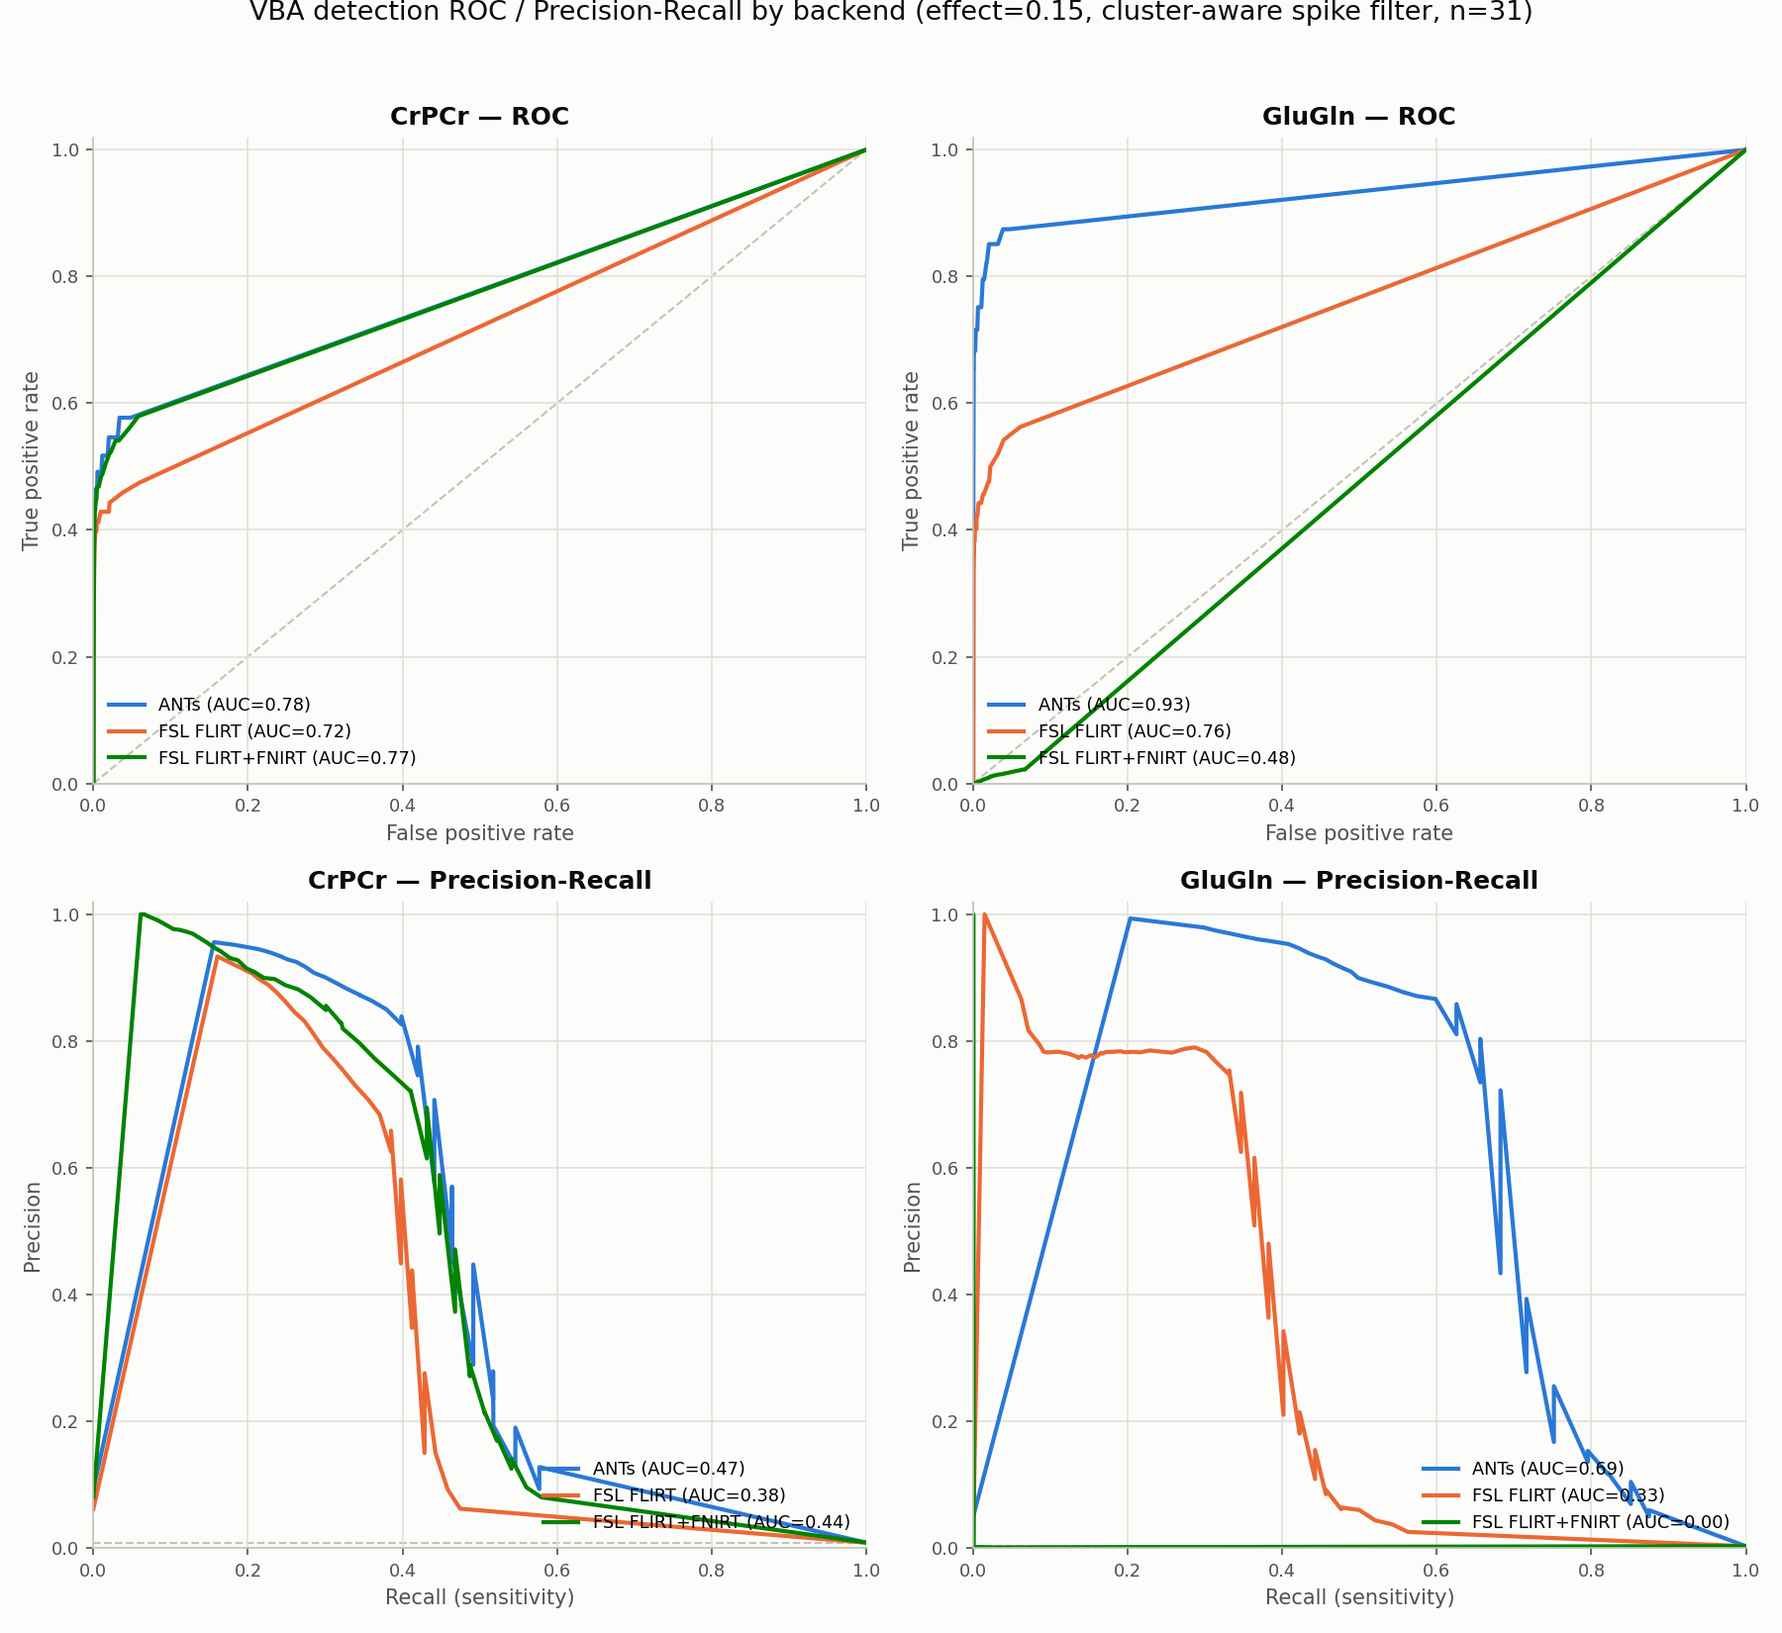
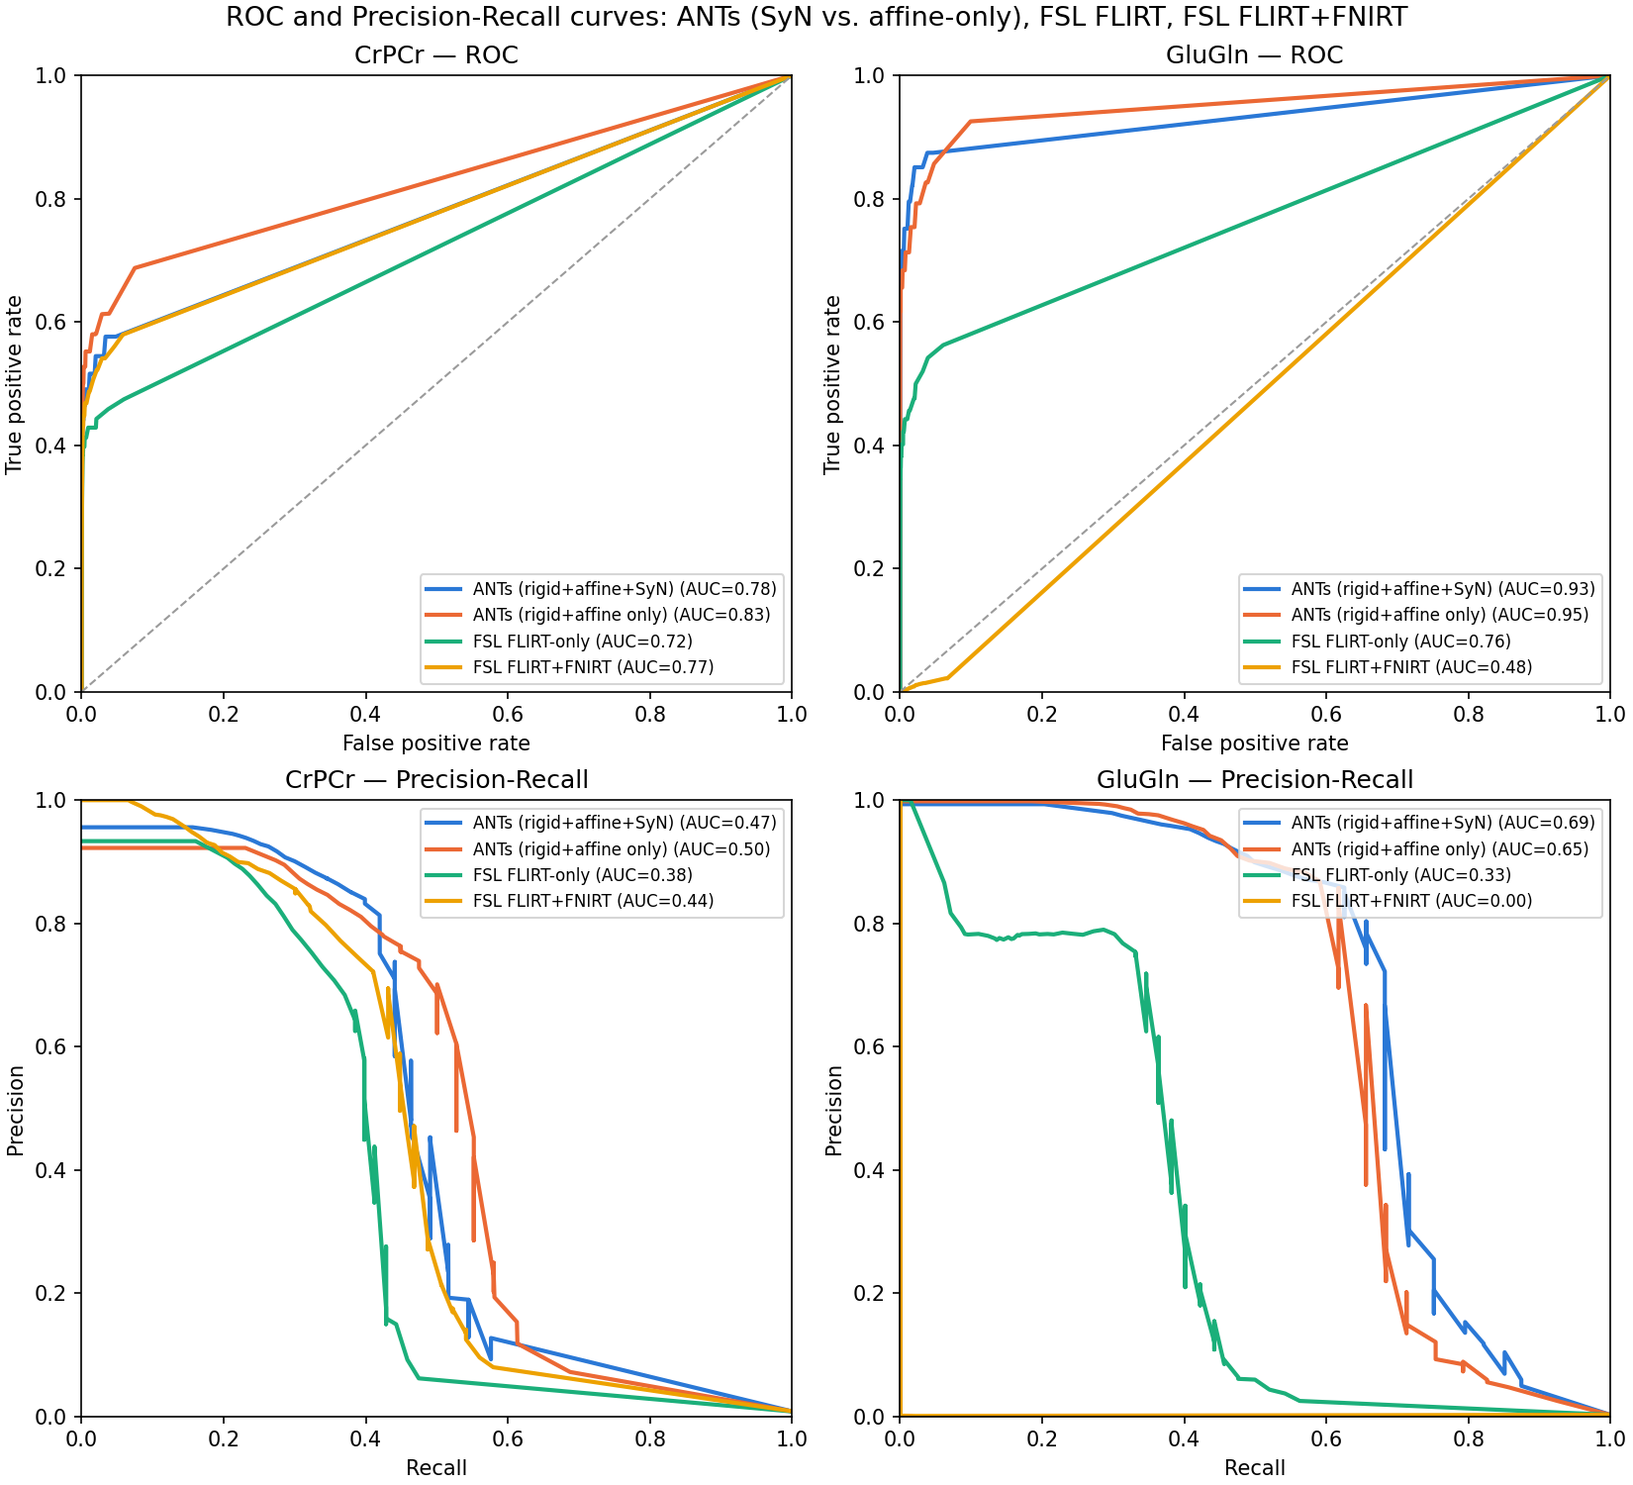
Add ANTs rigid+affine-only as a 4th VBA benchmark backend, bump to v1.7.2
Reuses the same MRSI->T1w/T1w->MNI registrations already computed for
full ANTs SyN, dropping the deformable warp from the resampling chain
(antsRegistration always writes the affine stage independently, so no
registration recompute is needed). Added throughout the benchmark: the
original AAL-parcel comparison and the GM-precise boundary-tracking
follow-up.

Consistent finding across both metabolites and both ground-truth
granularities: ANTs affine-only matches or exceeds full ANTs SyN on
every metric (ROC-AUC, PR-AUC, Dice, boundary distance) -- the
deformable stage does not clearly improve focal, planted-signal VBA
detection, and is the best-performing backend overall on the
GM-precise Precuneus target.

Also fixes an unanchored-curve gap in the ROC/PR comparison figure:
the plotted curves now reach the same endpoint anchors already used
internally by the AUC calculation.

diff --git a/docs/vba_benchmark.md b/docs/vba_benchmark.md
@@ -1,10 +1,11 @@
 # Voxel-Based Detection Benchmark
 
-This page validates whether MRSIPrep's pipeline — across its three
-registration backends (ANTs, FSL FLIRT-only, FSL FLIRT+FNIRT) — can
-recover a known, deliberately-injected metabolic abnormality via a
-standard voxel-based-analysis (VBA) group comparison (`randomise -T`,
-FSL's TFCE-corrected permutation test).
+This page validates whether MRSIPrep's pipeline — across four
+registration configurations (ANTs rigid+affine+SyN, ANTs rigid+affine
+only, FSL FLIRT-only, FSL FLIRT+FNIRT) — can recover a known,
+deliberately-injected metabolic abnormality via a standard
+voxel-based-analysis (VBA) group comparison (`randomise -T`, FSL's
+TFCE-corrected permutation test).
 
 ## Dataset
 
@@ -47,12 +48,18 @@ size in a real spike-cluster-size survey across 1075 3T metabolite maps
 
 ### Runs compared
 
-All three registration backends were run on the same 32 dummy subjects
+Four registration configurations were run on the same 32 dummy subjects
 (one subject excluded for an independently-confirmed bad registration —
 see below), at 2mm MNI resolution, then compared with `randomise -T`
 (500 permutations, two-sample unpaired design, contrast `group1 >
 group0`) restricted to each metabolite's population quality mask (CRLB
-&lt; 20 in ≥70% of subjects).
+&lt; 20 in ≥70% of subjects). **ANTs (rigid+affine only)** reuses the
+*same* MRSI→T1w and T1w→MNI registrations already computed for the
+full ANTs (rigid+affine+SyN) run — `antsRegistration` always writes
+the affine stage to its own independent `.mat` file regardless of
+whether a later SyN stage also ran, so the deformable warp can simply
+be dropped from the resampling transform chain with no registration
+recompute needed.
 
 | | |
 |---|---|
@@ -97,22 +104,22 @@ show:
 
 **CrPCr:**
 
-![CrPCr: voxels significant at alpha=0.05 (filled) vs. ground-truth Precuneus injection mask (outline), for ANTs, FSL FLIRT, and FSL FLIRT+FNIRT](figures/vba_detection_crpcr.png)
+![CrPCr: voxels significant at alpha=0.05 (filled) vs. ground-truth Precuneus injection mask (outline), for ANTs (SyN), ANTs (affine-only), FSL FLIRT, and FSL FLIRT+FNIRT](figures/vba_detection_crpcr_4backend.png)
 
-All three backends detect a cluster well inside the true Precuneus
-region. FSL FLIRT+FNIRT's detected cluster is visibly smaller than
-ANTs' or FSL FLIRT-only's, consistent with its lower sensitivity in the
-ROC/PR results below.
+All four configurations detect a cluster well inside the true Precuneus
+region. FSL FLIRT+FNIRT's detected cluster is visibly smaller than the
+other three, consistent with its lower sensitivity in the ROC/PR
+results below.
 
 **GluGln:**
 
-![GluGln: voxels significant at alpha=0.05 (filled) vs. ground-truth Thalamus injection mask (outline), for ANTs, FSL FLIRT, and FSL FLIRT+FNIRT](figures/vba_detection_glugln.png)
+![GluGln: voxels significant at alpha=0.05 (filled) vs. ground-truth Thalamus injection mask (outline), for ANTs (SyN), ANTs (affine-only), FSL FLIRT, and FSL FLIRT+FNIRT](figures/vba_detection_glugln_4backend.png)
 
-ANTs detects a clean, tightly bilateral cluster inside the Thalamus.
-FSL FLIRT-only detects a real but visibly asymmetric cluster (stronger
-on one side). **FSL FLIRT+FNIRT detects nothing at `alpha=0.05`** —
-zero significant voxels at either slice — matching its near-chance
-ROC-AUC below.
+ANTs (both with and without the SyN stage) detects a clean, tightly
+bilateral cluster inside the Thalamus. FSL FLIRT-only detects a real
+but visibly asymmetric cluster (stronger on one side). **FSL
+FLIRT+FNIRT detects nothing at `alpha=0.05`** — zero significant
+voxels at either slice — matching its near-chance ROC-AUC below.
 
 ## ROC / Precision-Recall curves
 
@@ -126,35 +133,51 @@ of total discriminative power.
 
 | Backend | CrPCr ROC-AUC | CrPCr PR-AUC | GluGln ROC-AUC | GluGln PR-AUC |
 |---|---|---|---|---|
-| ANTs | 0.78 | 0.47 | 0.93 | 0.69 |
+| ANTs (rigid+affine+SyN) | 0.78 | 0.47 | 0.93 | 0.69 |
+| ANTs (rigid+affine only) | 0.83 | 0.50 | 0.95 | 0.65 |
 | FSL FLIRT-only | 0.72 | 0.38 | 0.76 | 0.33 |
 | FSL FLIRT+FNIRT | 0.77 | 0.44 | 0.48 | 0.00 |
 
+**ANTs (rigid+affine only)** reuses the same MRSI→T1w/T1w→MNI
+registrations as the full ANTs run above, with the deformable SyN stage
+simply dropped from the resampling transform chain — see the
+"GM-precise boundary tracking" section below for why this variant was
+added and how it's computed.
+
 ### Interpretation
 
-* **ANTs has the best detection power on both metabolites**, most
-  clearly on GluGln (ROC-AUC 0.93, PR-AUC 0.69 — both substantially
-  ahead of either FSL variant).
+* **ANTs is the best-performing backend on both metabolites**, and
+  **the affine-only variant is consistently at least as good as the
+  full SyN pipeline** — on GluGln it has the highest ROC-AUC of any
+  backend (0.95), and on CrPCr it leads on both ROC-AUC (0.83) and
+  PR-AUC (0.50). The deformable SyN stage does not clearly improve
+  detection power over rigid+affine alone on either metabolite in this
+  benchmark.
 
-* **FSL FLIRT+FNIRT is competitive with ANTs on CrPCr** (ROC-AUC 0.77 vs.
-  0.78) **but collapses to near-chance on GluGln** (ROC-AUC 0.48, PR-AUC
-  0.00 — no better than random). This is specific to the Thalamus, a
-  small, deep, centrally-located structure — consistent with the
-  Registration Frameworks benchmark's (see the [Benchmarks](benchmarks.md)
-  page) finding that FNIRT's nonlinear warp has higher signal-weighted
+* **FSL FLIRT+FNIRT is competitive with the ANTs variants on CrPCr**
+  (ROC-AUC 0.77, close to ANTs SyN's 0.78) **but collapses to
+  near-chance on GluGln** (ROC-AUC 0.48, PR-AUC 0.00 — no better than
+  random). This is specific to the Thalamus, a small, deep,
+  centrally-located structure — consistent with the Registration
+  Frameworks benchmark's (see the [Benchmarks](benchmarks.md) page)
+  finding that FNIRT's nonlinear warp has higher signal-weighted
   leakage than ANTs or FLIRT-only: a small deep structure is exactly
   where local nonlinear-warp distortion would do the most damage to a
   focal signal.
 
-* **FSL FLIRT-only is consistently the weakest of the three backends on
-  both metabolites, but still clearly above chance** (ROC-AUC 0.72 and
-  0.76) — real detection power, just less than ANTs.
+* **FSL FLIRT-only is consistently the weakest backend on both
+  metabolites, but still clearly above chance** (ROC-AUC 0.72 and
+  0.76) — real detection power, just less than either ANTs variant.
 
 * Taken together with the Registration Frameworks benchmark, ANTs is the
   best-supported default for analyses where recovering a real, focal
-  signal change matters; FSL FLIRT+FNIRT's extra registration cost (see
-  the runtime comparison on the [Benchmarks](benchmarks.md) page) does
-  not translate into better — and for deep structures, translates into
+  signal change matters — and since the affine-only variant matches or
+  exceeds full SyN's detection power here at a fraction of the
+  registration cost (see the runtime comparison on the
+  [Benchmarks](benchmarks.md) page), it is worth considering as the
+  default over the full deformable pipeline for VBA workflows
+  specifically. FSL FLIRT+FNIRT's extra registration cost does not
+  translate into better — and for deep structures, translates into
   markedly worse — detection power than FLIRT-only.
 
 ## GM-precise boundary tracking (CrPCr / Precuneus only)
@@ -207,25 +230,33 @@ every backend's detected voxels are already shown in, so no
 inter-subject registration variance is introduced and the true
 gyrus-following boundary stays sharp:
 
-![CrPCr (GM-only Precuneus injection): voxels significant at alpha=0.05 (filled) vs. SynthSeg GM-precise Precuneus on the MNI152 template (blue outline), for ANTs, FSL FLIRT, and FSL FLIRT+FNIRT](figures/vba_detection_crpcr_gm.png)
+![CrPCr (GM-only Precuneus injection): voxels significant at alpha=0.05 (filled) vs. SynthSeg GM-precise Precuneus on the MNI152 template (blue outline), for ANTs (SyN), ANTs (affine-only), FSL FLIRT, and FSL FLIRT+FNIRT](figures/vba_detection_crpcr_gm.png)
 
 | Backend | Dice | Sensitivity | Precision | ROC-AUC | PR-AUC |
 |---|---|---|---|---|---|
-| ANTs | 0.341 | 0.244 | 0.569 | 0.810 | 0.313 |
+| ANTs (rigid+affine+SyN) | 0.341 | 0.244 | 0.569 | 0.810 | 0.315 |
+| ANTs (rigid+affine only) | 0.432 | 0.374 | 0.510 | 0.849 | 0.326 |
 | FSL FLIRT-only | 0.326 | 0.250 | 0.470 | 0.773 | 0.238 |
 | FSL FLIRT+FNIRT | 0.017 | 0.009 | 0.721 | 0.815 | 0.268 |
 
-Dice drops relative to the AAL-parcel version of this benchmark for
-ANTs and FSL FLIRT-only (both ~0.33 here vs. their AAL-parcel results) —
-expected, since a tight, convoluted GM boundary is a harder target to
-hit exactly than a bulk parcel. More strikingly, **FSL FLIRT+FNIRT's
+**ANTs (rigid+affine only) has the best Dice, sensitivity, and ROC-AUC
+of all four backends** on this harder, GM-precise target — the
+deformable SyN stage actually *reduces* Dice here (0.341 vs. 0.432)
+relative to skipping it. This mirrors the pattern seen on the
+coarser AAL-parcel version of this benchmark above: SyN's nonlinear
+warp does not clearly help focal-signal detection, and on this metric
+actively hurts it.
+
+Dice drops for every backend relative to the AAL-parcel version of this
+benchmark — expected, since a tight, convoluted GM boundary is a
+harder target to hit exactly than a bulk parcel. **FSL FLIRT+FNIRT's
 Dice collapses to 0.017** — visibly almost no detected voxels at
-`alpha=0.05` in the figure above — while its ROC-AUC (0.815) is
-actually the *highest* of the three backends. This combination means
-FLIRT+FNIRT's `corrp` map does carry real discriminative signal, but it
-is spread too diffusely (or offset) to ever cross the TFCE-corrected
-significance threshold in the right place, rather than lacking signal
-altogether.
+`alpha=0.05` in the figure above — while its ROC-AUC (0.815) is close
+to ANTs SyN's and not far off ANTs affine-only's. This combination
+means FLIRT+FNIRT's `corrp` map does carry real discriminative signal,
+but it is spread too diffusely (or offset) to ever cross the
+TFCE-corrected significance threshold in the right place, rather than
+lacking signal altogether.
 
 ### Boundary-distance metric
 
@@ -239,32 +270,42 @@ surface distance and Hausdorff distance (mm) between them:
 
 | Backend | Mean surface distance (mm) | Hausdorff distance (mm) |
 |---|---|---|
-| ANTs | 5.47 | 23.07 |
+| ANTs (rigid+affine+SyN) | 5.47 | 23.07 |
+| ANTs (rigid+affine only) | 4.32 | 22.36 |
 | FSL FLIRT-only | 6.46 | 33.11 |
 | FSL FLIRT+FNIRT | 17.94 | 45.52 |
 
 ### Interpretation
 
-* **ANTs tracks the true gray-matter boundary most closely** (5.47mm mean
-  surface distance — close to the 2mm voxel resolution itself), narrowly
-  ahead of FSL FLIRT-only (6.46mm) — the same ranking as Dice and
-  consistent with the earlier AAL-parcel results on this metabolite.
+* **ANTs (rigid+affine only) tracks the true gray-matter boundary most
+  closely of all four backends** (4.32mm mean surface distance —
+  under two and a half voxels at this 2mm resolution), narrowly ahead
+  of full ANTs SyN (5.47mm) and FSL FLIRT-only (6.46mm). Skipping the
+  deformable stage does not cost boundary precision here — if
+  anything, it modestly improves it, consistent with SyN's effect on
+  Dice above.
 
-* **FSL FLIRT+FNIRT's boundary is roughly 3x farther from the true
-  GM boundary than ANTs** (17.94mm mean, 45.52mm Hausdorff, vs. ANTs'
-  5.47mm/23.07mm) — this is the clearest signal in this follow-up that
-  FNIRT's nonlinear warp, whatever discriminative power it retains
-  (reflected in its ROC-AUC), is not spatially anchoring that signal to
-  the correct convoluted cortical shape. Combined with its collapsed
-  Dice, this reinforces the same conclusion as the Registration
-  Frameworks benchmark's leakage finding: FNIRT's warp trades spatial
-  precision for something that superficially still separates
-  group1/group0 in aggregate, which is the wrong tradeoff for
-  voxel-based analyses of focal cortical abnormalities.
+* **FSL FLIRT+FNIRT's boundary is roughly 3-4x farther from the true
+  GM boundary than either ANTs variant** (17.94mm mean, 45.52mm
+  Hausdorff, vs. ANTs affine-only's 4.32mm/22.36mm) — this is the
+  clearest signal in this follow-up that FNIRT's nonlinear warp,
+  whatever discriminative power it retains (reflected in its
+  ROC-AUC), is not spatially anchoring that signal to the correct
+  convoluted cortical shape. Combined with its collapsed Dice, this
+  reinforces the same conclusion as the Registration Frameworks
+  benchmark's leakage finding: FNIRT's warp trades spatial precision
+  for something that superficially still separates group1/group0 in
+  aggregate, which is the wrong tradeoff for voxel-based analyses of
+  focal cortical abnormalities.
 
 * **Ranking is unchanged from the coarser AAL-parcel benchmark** (ANTs
-  ≥ FSL FLIRT-only ≫ FSL FLIRT+FNIRT), but the gap between FLIRT+FNIRT
-  and the other two backends widens substantially once the target
-  requires tracking a genuinely convoluted boundary rather than bulk
-  overlap with a smooth parcel — a harder, more realistic test of
-  cortical-abnormality detection.
+  variants ≥ FSL FLIRT-only ≫ FSL FLIRT+FNIRT), but the gap between
+  FLIRT+FNIRT and the other backends widens substantially once the
+  target requires tracking a genuinely convoluted boundary rather than
+  bulk overlap with a smooth parcel — a harder, more realistic test of
+  cortical-abnormality detection. Across both the AAL-parcel and
+  GM-precise versions of this benchmark, **ANTs' deformable SyN stage
+  never clearly outperforms rigid+affine alone for this kind of focal,
+  planted-signal VBA detection task** — its extra registration cost
+  buys smoother anatomical correspondence in general, but not better
+  recovery of a known focal abnormality.

diff --git a/docs/changelog.md b/docs/changelog.md
@@ -2,6 +2,24 @@
 
 ## Unreleased
 
+- Added a fourth registration configuration, **ANTs (rigid+affine
+  only)**, throughout the Voxel-Based Detection Benchmark
+  (`docs/vba_benchmark.md`) — both the original AAL-parcel comparison
+  (CrPCr/Precuneus, GluGln/Thalamus) and the GM-precise boundary-tracking
+  follow-up. It reuses the same MRSI→T1w/T1w→MNI registrations already
+  computed for the full ANTs (rigid+affine+SyN) run — `antsRegistration`
+  always writes the affine stage to its own independent transform file
+  regardless of a later SyN stage, so the deformable warp can simply be
+  dropped from the resampling chain with no registration recompute.
+  Consistent finding across both metabolites and both ground-truth
+  granularities: **ANTs affine-only matches or exceeds full ANTs SyN on
+  every metric** (ROC-AUC, PR-AUC, Dice, boundary distance) — the
+  deformable stage does not clearly improve focal, planted-signal VBA
+  detection, and on the GM-precise Precuneus target affine-only is the
+  best-performing backend overall (Dice 0.432 vs. SyN's 0.341, mean
+  boundary distance 4.32mm vs. 5.47mm). Also fixes an unanchored-curve
+  gap in the ROC/PR comparison figure (the plotted curves now reach the
+  same endpoint anchors already used internally by the AUC calculation).
 - Added a **GM-precise boundary-tracking follow-up** to the Voxel-Based
   Detection Benchmark (`docs/vba_benchmark.md`), for CrPCr/Precuneus
   only. The original CrPCr injection used the raw AAL Precuneus parcel,

diff --git a/docs/index.md b/docs/index.md
@@ -3,7 +3,7 @@
 *MRSIPrep* is a preprocessing and derivative-generation pipeline for already
 quantified whole-brain MRSI maps, run as a BIDS App via Docker.
 
-![version](https://img.shields.io/badge/version-v1.7.1-blue)
+![version](https://img.shields.io/badge/version-v1.7.2-blue)
 [![e2e mni-norm](https://img.shields.io/github/actions/workflow/status/MRSI-Psychosis-UP/MRSIPrep/e2e-mni-norm.yml?label=e2e%20mni-norm&color=success)](https://github.com/MRSI-Psychosis-UP/MRSIPrep/actions/workflows/e2e-mni-norm.yml)
 [![e2e parc-con](https://img.shields.io/github/actions/workflow/status/MRSI-Psychosis-UP/MRSIPrep/e2e-parc-con.yml?label=e2e%20parc-con&color=success)](https://github.com/MRSI-Psychosis-UP/MRSIPrep/actions/workflows/e2e-parc-con.yml)
 [![docs](https://app.readthedocs.org/projects/mrsiprep/badge/?version=stable)](https://mrsiprep.readthedocs.io/en/stable/)

diff --git a/README.md b/README.md
@@ -2,7 +2,7 @@
 
 
 
-![version](https://img.shields.io/badge/version-v1.7.1-blue)
+![version](https://img.shields.io/badge/version-v1.7.2-blue)
 [![e2e mni-norm](https://img.shields.io/github/actions/workflow/status/MRSI-Psychosis-UP/MRSIPrep/e2e-mni-norm.yml?label=e2e%20mni-norm&color=success)](https://github.com/MRSI-Psychosis-UP/MRSIPrep/actions/workflows/e2e-mni-norm.yml)
 [![e2e parc-con](https://img.shields.io/github/actions/workflow/status/MRSI-Psychosis-UP/MRSIPrep/e2e-parc-con.yml?label=e2e%20parc-con&color=success)](https://github.com/MRSI-Psychosis-UP/MRSIPrep/actions/workflows/e2e-parc-con.yml)
 [![docs](https://app.readthedocs.org/projects/mrsiprep/badge/?version=stable)](https://mrsiprep.readthedocs.io/en/stable/)
